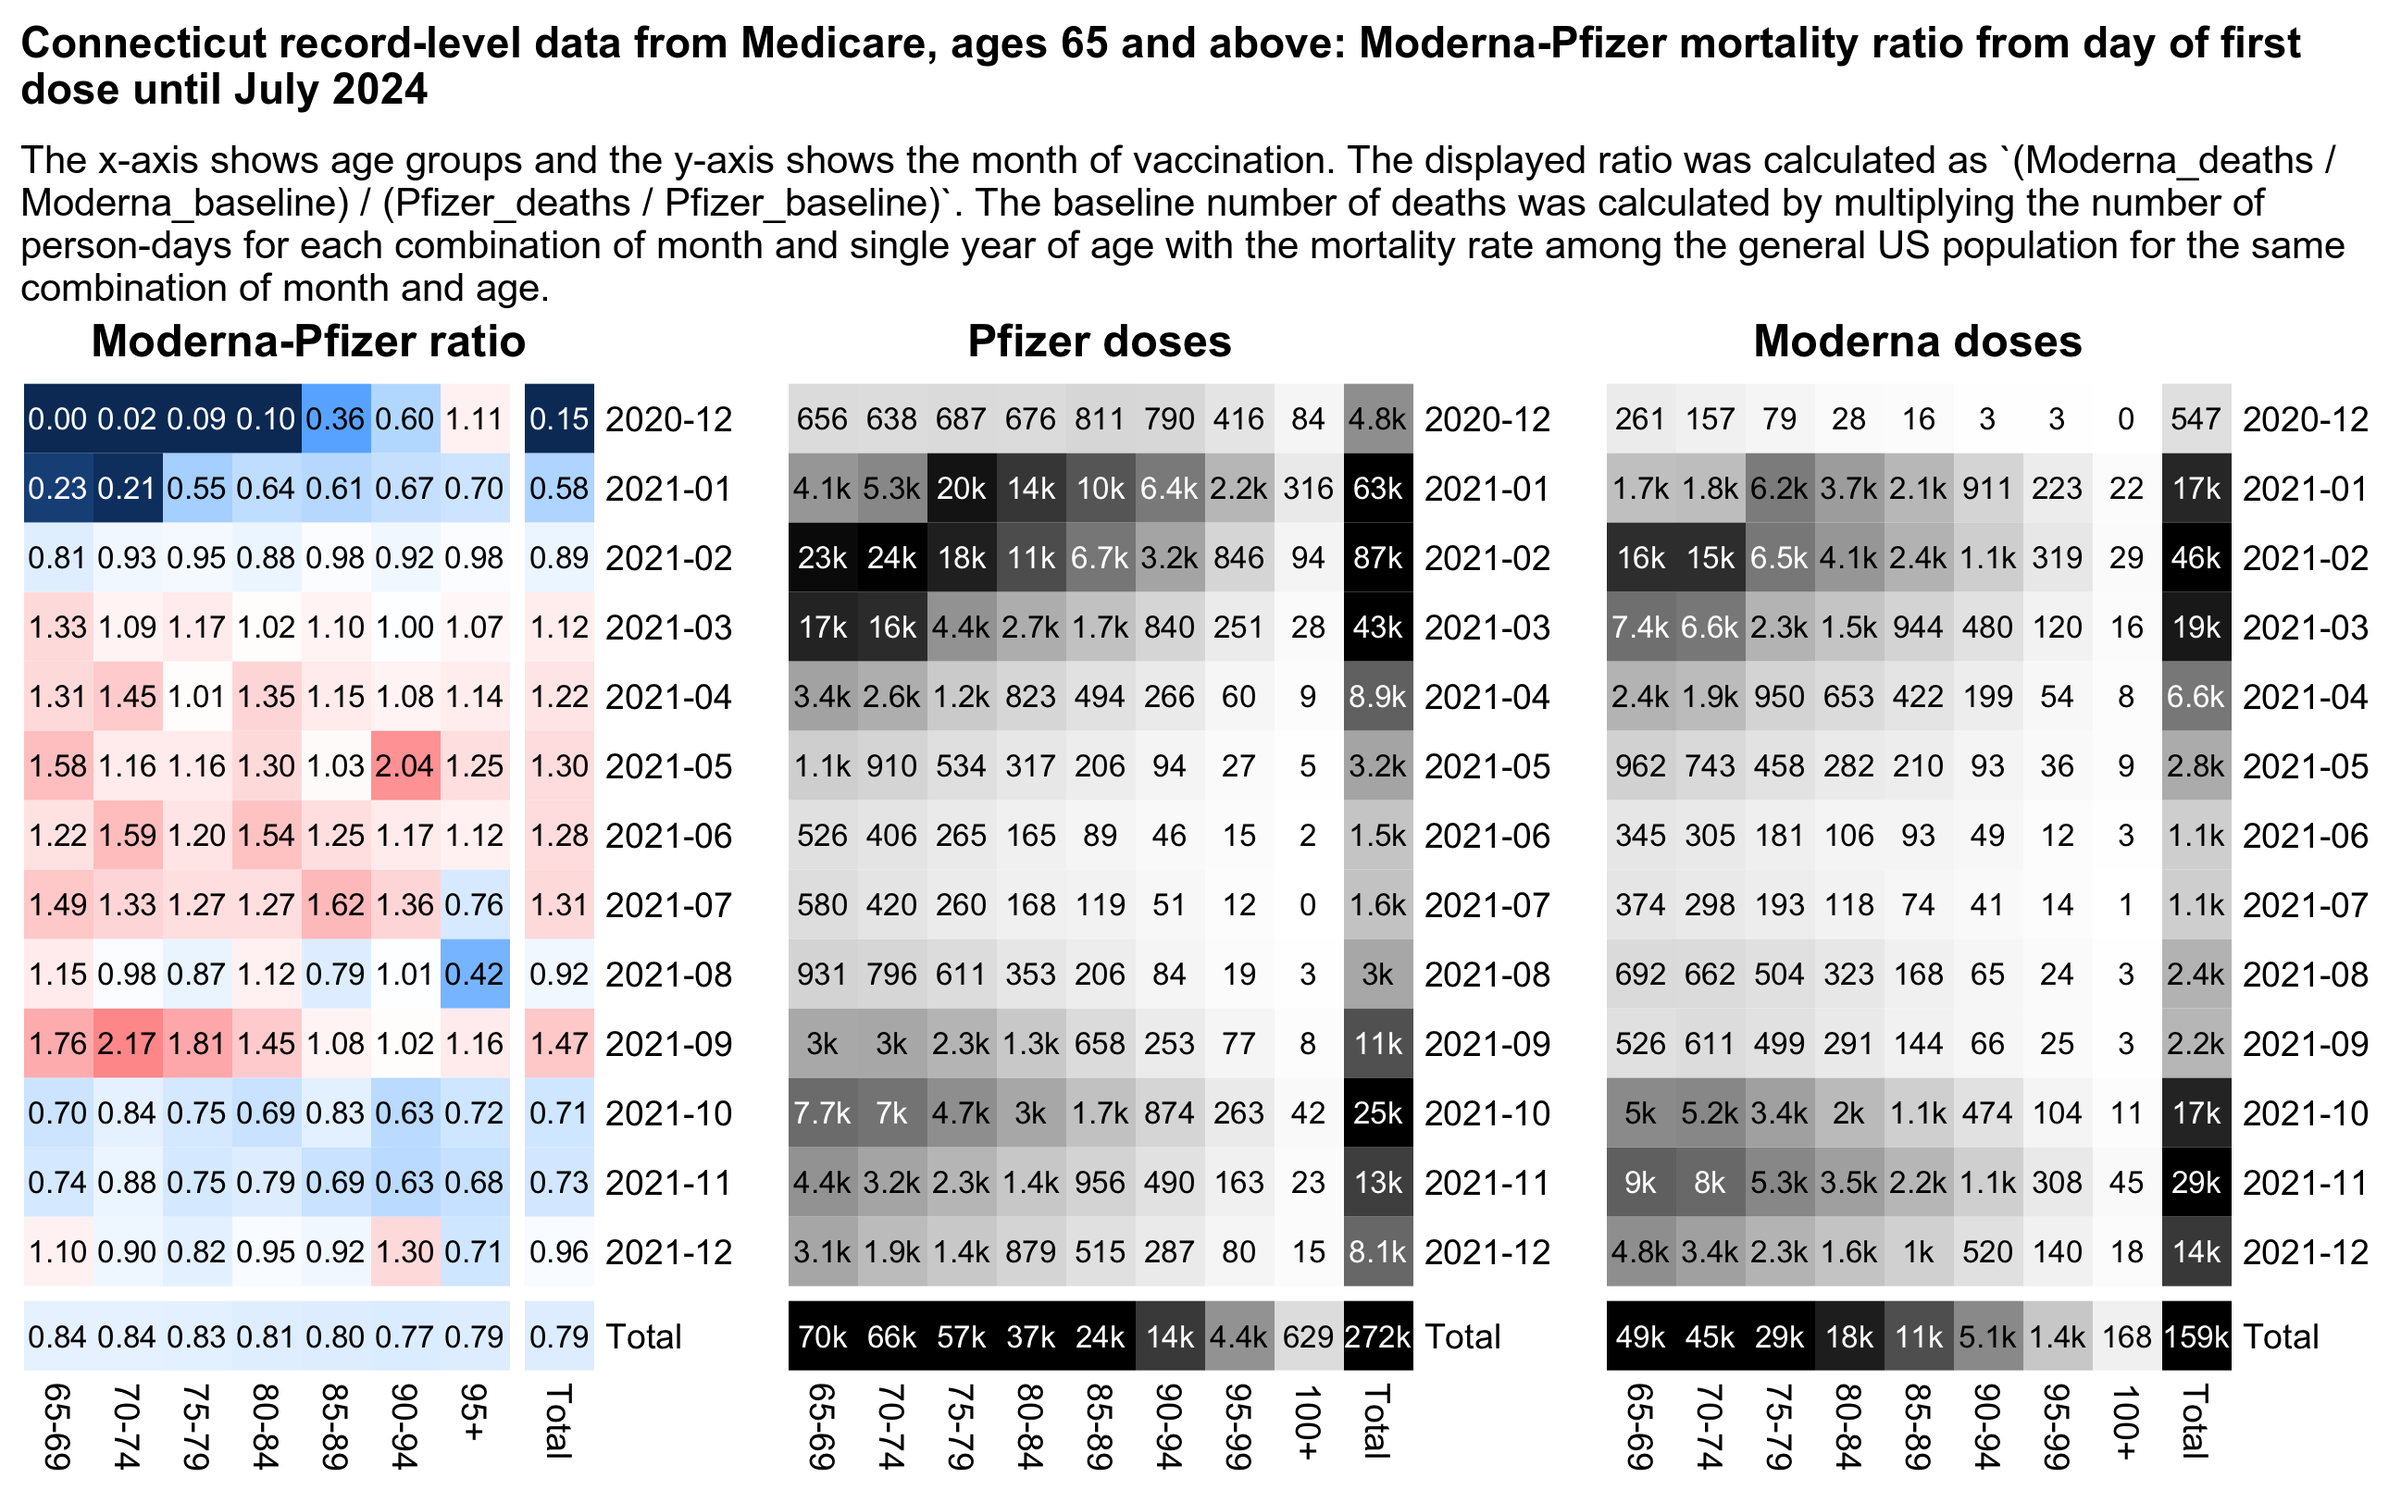
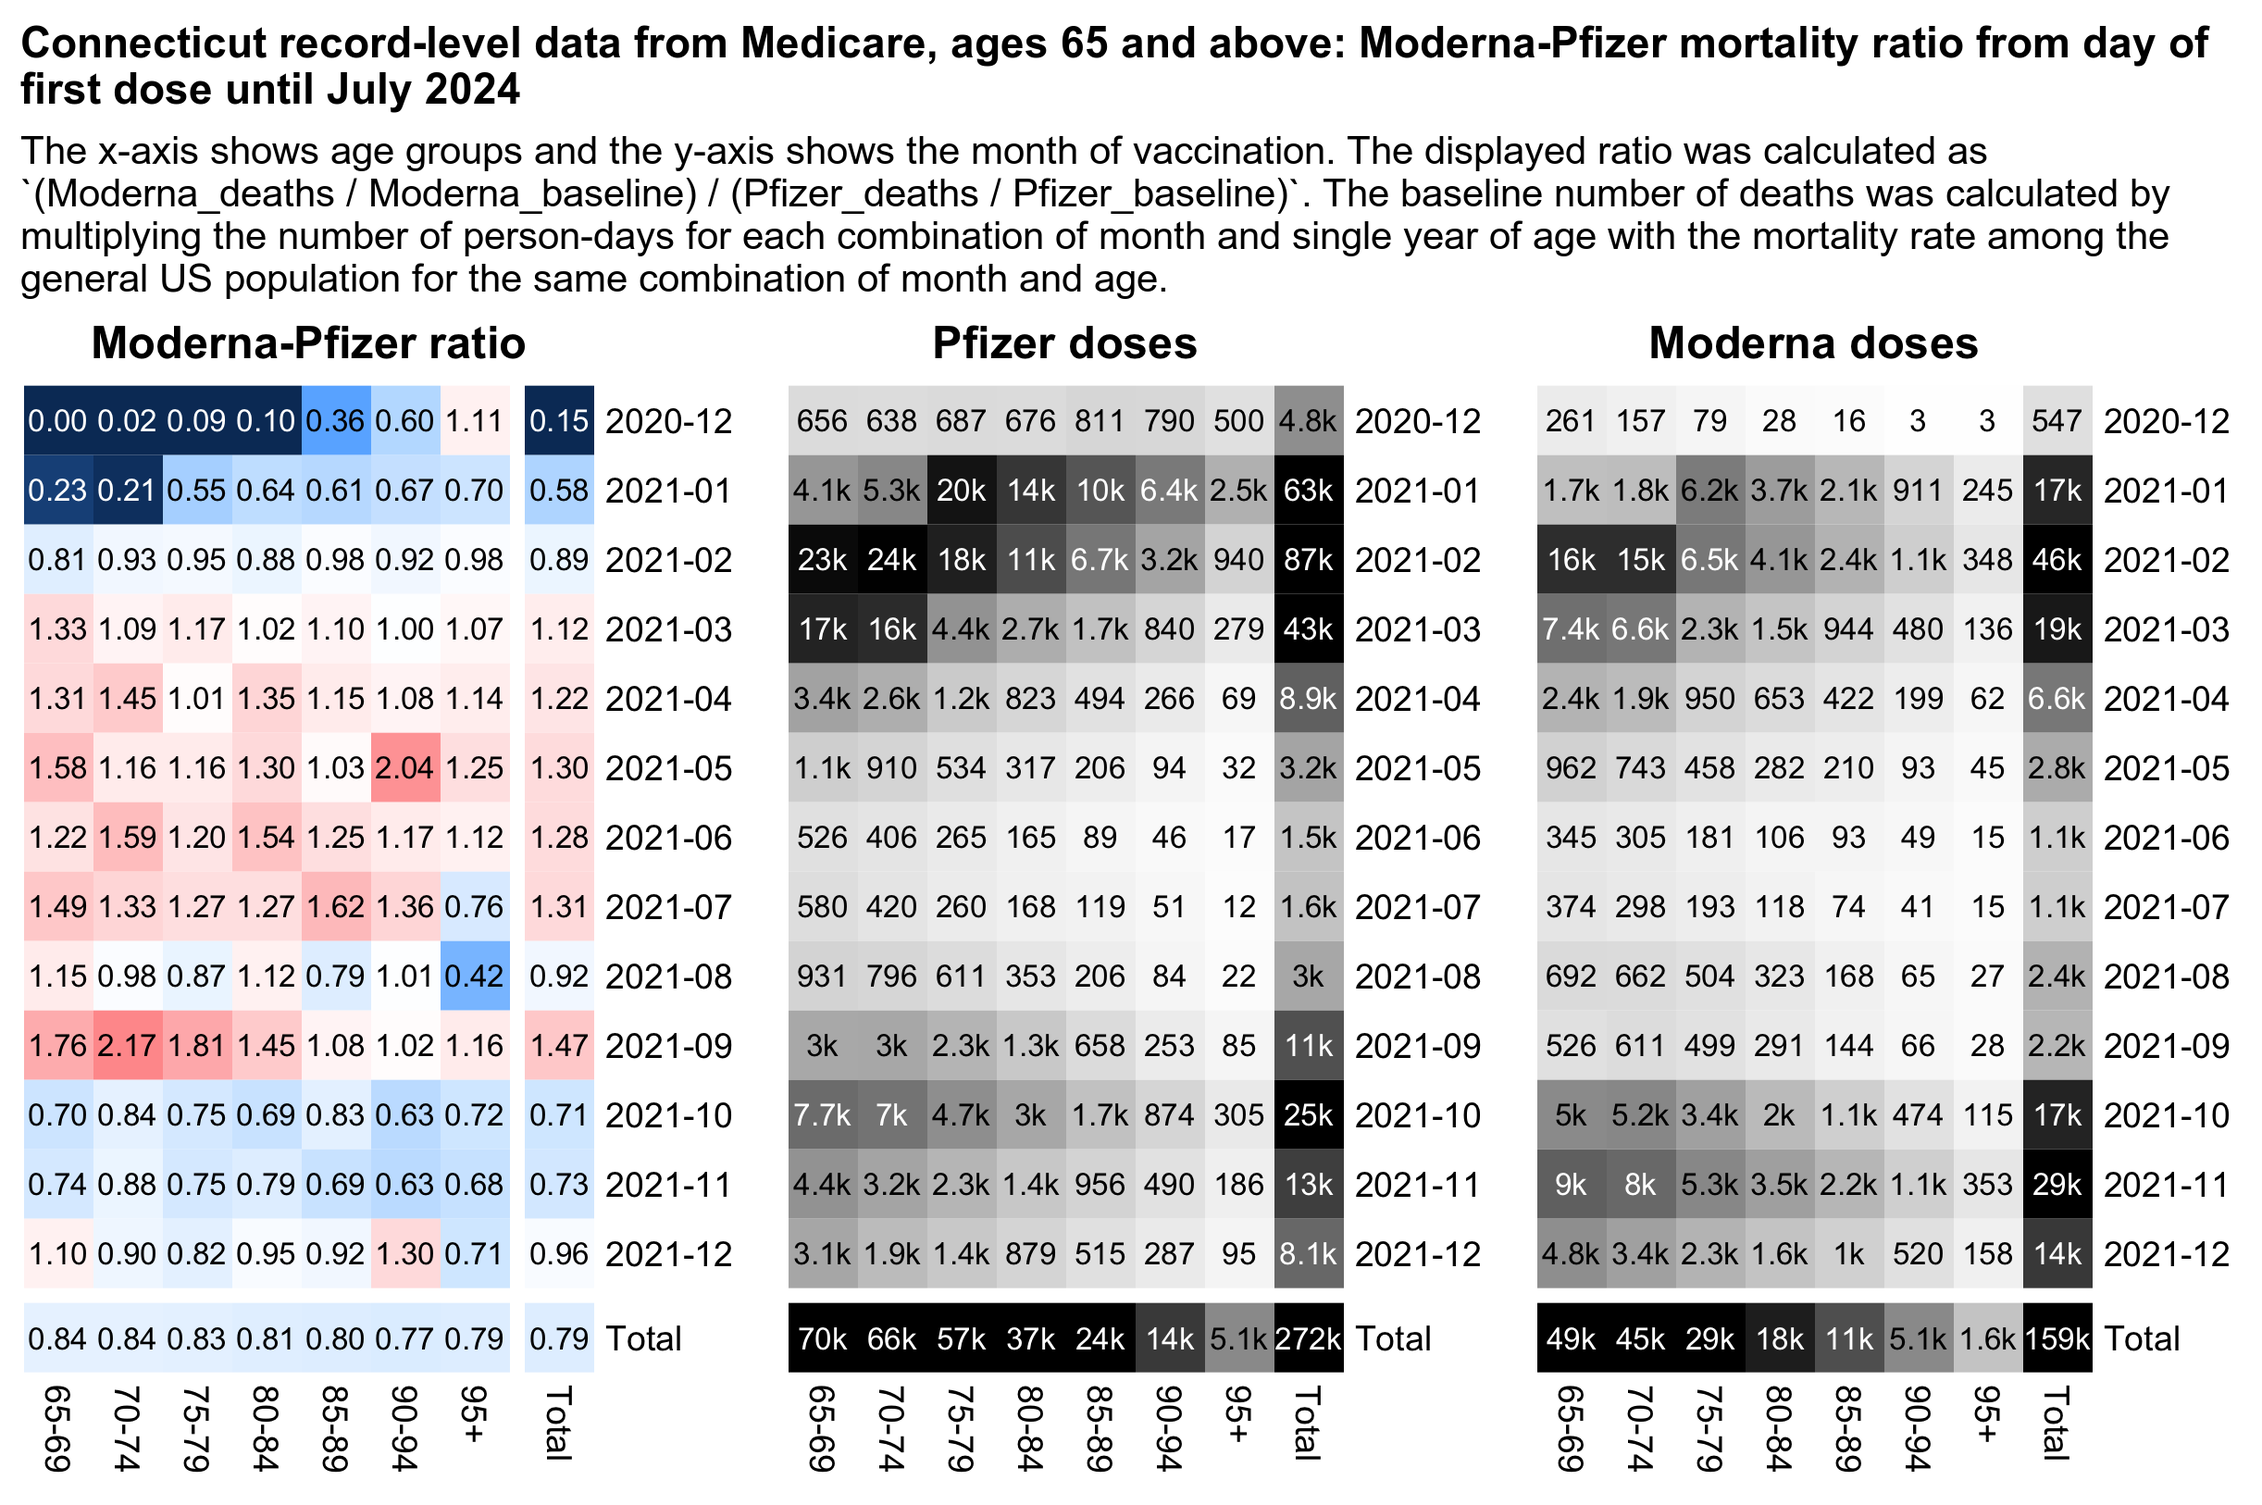
a

Changed region(s): [[0.0, 0.0, 0.9951, 0.9852]]

diff --git a/uk.html b/uk.html
@@ -27,7 +27,7 @@ blockquote .quote,blockquote blockquote,.quote .quote{color:hsl(45,55%,65%)}
 blockquote blockquote blockquote,blockquote blockquote .quote,blockquote .quote .quote,.quote .quote .quote{color:hsl(40,40%,50%)}
 .spoiler button{width:90px;border:0;font-family:inherit;font-size:inherit;color:inherit;margin:0;background:#4a4a4a;padding:4px 0px;outline:none;cursor:pointer}
 .spoiler pre{display:none;margin-top:0}
-.red{color:hsl(0,100%,75%)}
+.red,.red .quote{color:hsl(0,100%,75%)!important}
 .width1{max-width:100px}
 .width2{max-width:200px}
 .width3{max-width:300px}
@@ -46,7 +46,7 @@ blockquote blockquote blockquote,blockquote blockquote .quote,blockquote .quote 
 .width00 img,.width0 img{margin:0 -1.5px -1.5px 0;vertical-align:bottom}
 .blockimg{max-width:calc(100vw - min(50vw - 270px, 100vw - 1100px) - 40px - 6px)}
 @media print{
-  body{background:white;color:black;margin:0px;zoom:.75;print-color-adjust:exact;-webkit-print-color-adjust:exact}
+  body{background:white;color:black;margin:0px;zoom:1;print-color-adjust:exact;-webkit-print-color-adjust:exact}
   a{color:#0000EE}a:visited{color:#551A8B}
   h1,h2,h2 a,h3 a,h2 a:visited,h3 a:visited{color:black}
   pre,code{background:#ccc;color:black;font-size:13px}
@@ -76,7 +76,7 @@ blockquote blockquote blockquote,blockquote blockquote .quote,blockquote .quote 
 <li><a href=#Jikkyleaks_ASMR_in_people_with_two_doses_in_the_ONS_dataset>Jikkyleaks: ASMR in people with two doses in the ONS dataset</a></li>
 <li><a href=#Steve_Kirsch_Diagnoses_for_cataracts_in_England>Steve Kirsch: Diagnoses for cataracts in England</a></li>
 <li><a href=#Clare_Craig_Email_by_ONS_which_is_supposed_to_have_vindicated_Fenton_and_Neil>Clare Craig: Email by ONS which is supposed to have vindicated Fenton and Neil</a></li>
-<li><a href=#Steve_Kirsch_Lancet_paper_which_said_there_were_about_8_excess_deaths_in_the_UK_in_2022_and_2023>Steve Kirsch: Lancet paper which said there were about 8% excess deaths in the UK in 2022 and 2023</a></li>
+<li><a href=#Steve_Kirsch_Lancet_paper_which_said_there_was_about_8_excess_deaths_in_the_UK_in_2022_and_2023>Steve Kirsch: Lancet paper which said there was about 8% excess deaths in the UK in 2022 and 2023</a></li>
 <li><a href=#Camus_Mortality_rate_in_ages_10_14_in_an_old_version_of_the_ONS_dataset>Camus: Mortality rate in ages 10-14 in an old version of the ONS dataset</a></li>
 </ul>
 
@@ -998,7 +998,7 @@ system(paste0(&quot;f=0.png;mar=70;w=`identify -format %w $f`;convert \\( $f -gr
 <div class="width5">
 <img src="i/statistic-kirsch-cataract-2.jpg">
 </div>
-<p>However H28 isn't even a very comon diagnosis. And other more common eye-related diagnoses have remained more stable in England (even though in the financial year 2022-2022 there's about 15% total excess diagnoses under ICD codes H00-H59 relative to a pre-COVID linear trend, and there's also about 44% excess diagnoses for the common ICD code H26, <span class="quote">&quot;Other cataract&quot;</span>): [<a href="https://digital.nhs.uk/data-and-information/publications/statistical/hospital-admitted-patient-care-activity">https://digital.nhs.uk/data-and-information/publications/statistical/hospital-admitted-patient-care-activity</a>]</p>
+<p>However H28 isn't even a very comon diagnosis. And other more common eye-related diagnoses have remained more stable in England (even though in the financial year 2022-2023 I got about 15% total excess diagnoses under the ICD codes H00-H59, and I got about 44% excess diagnoses for the ICD code for <span class="quote">&quot;other cataract&quot;</span> which is much more common than H28): [<a href="https://digital.nhs.uk/data-and-information/publications/statistical/hospital-admitted-patient-care-activity">https://digital.nhs.uk/data-and-information/publications/statistical/hospital-admitted-patient-care-activity</a>]</p>
 <div class="width10">
 <img src="i/statistic-kirsch-cataract.png">
 </div>
@@ -1121,7 +1121,7 @@ print(mutate_if(me,is.double,round),r=F)</pre>
 <div class="width4">
 <img src="i/statistic-kirsch-cataract-6.jpg">
 </div>
-<p>Bridgen's plot might seem scary at first if you don't pay attention to how it shows diagnoses for family history of breast cancer, which presumably wouldn't have been affected as much by vaccination as the actual incidence of breast cancer (because the family history of cancer is based on the incidence over several decades so it doesn't change as fast as the actual incidence of breast cancer). Bridgen also didn't mention that his plot showed only primary diagnoses, but the family history diagnosis is not even supposed to be used as a primary diagnosis according to NHS guidelines. And his plot also didn't show that there was a fairly large number of primary diagnoses for family history of breast cancer in the business year 2009-2010 and earlier: [<a href="https://x.com/UncleJo46902375/status/1804448406535868862">https://x.com/UncleJo46902375/status/1804448406535868862</a>]</p>
+<p>Bridgen's plot might seem scary at first if you don't pay attention to how it shows diagnoses for family history of breast cancer, which presumably wouldn't have been impacted as much by vaccination as the actual incidence of breast cancer (because the family history of cancer is based on the incidence over several decades so it doesn't change as fast as the actual incidence of breast cancer). Bridgen also didn't mention that his plot showed only primary diagnoses, but the family history diagnosis is not even meant to be used as a primary diagnosis according to NHS guidelines. And his plot only started in the business year 2012-2013, so it didn't show that there was a fairly high number of primary diagnoses for family history of breast cancer in the business year 2009-2010 and earlier: [<a href="https://x.com/UncleJo46902375/status/1804448406535868862">https://x.com/UncleJo46902375/status/1804448406535868862</a>]</p>
 <div class="width11">
 <img src="i/statistic-kirsch-cataract-7.jpg">
 </div>
@@ -1185,7 +1185,7 @@ print(mutate_if(me,is.double,round),r=F)</pre>
 </blockquote>
 <p>However the ONS had already fixed the issue of the missing vaccination entries in 2022, but it didn't have much effect on the overall mortality rates of vaccinated and unvaccinated people. Unvaccinated people still have a big spike in non-COVID deaths in early 2021, there's still low mortality in the first 3 weeks after vaccination, and the ASMR of people with n-1 doses still shoots up when the nth dose is rolled out. So the various phenomena which Fenton and Neil attempted to explain in their preprints are still present in the ONS dataset even though the error of the missing vaccination records was already fixed. So the error was not sufficient to explain the phenomena, so Fenton and Neil still need to come up with some other way to explain them.</p>
 <h2>
-<a href=#Steve_Kirsch_Lancet_paper_which_said_there_were_about_8_excess_deaths_in_the_UK_in_2022_and_2023 id=Steve_Kirsch_Lancet_paper_which_said_there_were_about_8_excess_deaths_in_the_UK_in_2022_and_2023>Steve Kirsch: Lancet paper which said there were about 8% excess deaths in the UK in 2022 and 2023</a>
+<a href=#Steve_Kirsch_Lancet_paper_which_said_there_was_about_8_excess_deaths_in_the_UK_in_2022_and_2023 id=Steve_Kirsch_Lancet_paper_which_said_there_was_about_8_excess_deaths_in_the_UK_in_2022_and_2023>Steve Kirsch: Lancet paper which said there was about 8% excess deaths in the UK in 2022 and 2023</a>
 </h2>
 <p>Steve Kirsch posted this Substack post about a short comment-type paper that was published in The Lancet: [<a href="https://kirschsubstack.com/p/uk-ons-excess-deaths-in-the-uk-cannot">https://kirschsubstack.com/p/uk-ons-excess-deaths-in-the-uk-cannot</a>]</p>
 <div class="width6">
@@ -1337,7 +1337,7 @@ Vaccinated total
 7.7
 </td></tr>
 </table>
-<p>If the table which showed total mortality rate over the entire study period would've also been included in the two newest editions of the ONS dataset, the total CMR of unvaccinated people in ages 10-14 might have eventually crossed above vaccinated people. In the two newest editions the youngest age group was 18-39. The output below shows cumulative deaths per 100k person-years in ages 18-39 up to the month shown in the first column. Vaccinated CMR was initially higher which might have been if vaccinated people were older on average than unvaccinated people, or if vulnerable groups of people had been priorized for vaccination, but unvaccinated CMR crossed above vaccinated CMR in December 2021 (but in ages 10-14 it probably took longer for unvaccinated CMR to cross above vaccinated CMR because ages 10-14 got vaccinated later than ages 18-39):</p>
+<p>If the table which showed total mortality rate over the entire study period would've also been included in the two newest editions of the ONS dataset, the total CMR of unvaccinated people in ages 10-14 might have eventually crossed above vaccinated people. In the two newest editions the youngest age group was 18-39. The output below shows cumulative deaths per 100k person-years in ages 18-39 up to the month shown in the first column. Vaccinated CMR was initially higher which might have been because vaccinated people were older than unvaccinated people, or because vulnerable groups of people had been priorized for vaccination, but unvaccinated CMR eventually crossed above vaccinated CMR in December 2021 (but in ages 10-14 it probably took longer for unvaccinated CMR to cross above vaccinated CMR because ages 10-14 got vaccinated later than ages 18-39):</p>
 <pre>t=fread(&quot;http://sars2.net/f/ons.csv&quot;)
 t=t[ed==9|(ed==7&amp;month&lt;=&quot;2021-03&quot;)]
 a=t[age==&quot;18-39&quot;&amp;cause==&quot;All causes&quot;]
@@ -1350,7 +1350,7 @@ o[,ratio:=vaxcmr/unvaxcmr]
 mutate_if(o,is.double,round,2)|&gt;print(r=F)</pre>
 <!-- -->
 <pre>  month vaxcmr unvaxcmr ratio
-2021-01  51.94    68.28  0.76
+2021-01  51.94    68.28  0.76 # cumulative CMR
 2021-02  80.93    60.30  1.34
 2021-03  77.39    54.78  1.41
 2021-04  83.64    49.71  1.68

diff --git a/connecticut.html b/connecticut.html
@@ -536,12 +536,10 @@ ggsave(&quot;1.png&quot;,width=4,height=2.7,dpi=400)</pre>
 <h2>
 <a href=#Moderna_Pfizer_mortality_ratio_by_age_group id=Moderna_Pfizer_mortality_ratio_by_age_group>Moderna-Pfizer mortality ratio by age group</a>
 </h2>
-<p>Ulf Lorré pointed out that in most age groups Pfizer got higher relative risk than Moderna: [<a href="https://x.com/ULorre/status/1841193612543213775">https://x.com/ULorre/status/1841193612543213775</a>]</p>
-<div class="width6">
-<img src="i/ct-ageheat-1.png">
-</div>
-<p>However Moderna-Pfizer mortality ratio also depends a lot on the month of vaccination. Here among people who got the first dose in March, April, May, June, July, or September 2021, Moderna got a higher age-normalized mortality rate than Pfizer in most age groups:</p>
-<div class="width8">
+<p>Ulf Lorré got higher relative risk for Pfizer than Moderna for most ages which had a sufficiently large sample size: [<a href="https://x.com/ULorre/status/1841193612543213775">https://x.com/ULorre/status/1841193612543213775</a>]</p>
+<p><img src=i/ct-ageheat-1.png style=max-width:550px></p>
+<p>However the Moderna-Pfizer mortality ratio also depends a lot on the month of vaccination. Here among people who got the first dose in March, April, May, June, July, or September 2021, Moderna got a higher normalized mortality rate than Pfizer in most age groups:</p>
+<div class="width9">
 <img src="i/ct-ageheat-2.png">
 </div>
 <div class="spoiler">
@@ -586,7 +584,7 @@ pheatmap::pheatmap(m,filename=&quot;mort.png&quot;,display_numbers=disp,
   colorRampPalette(hsv(rep(c(7/12,0),4:5),c(.9,.75,.6,.3,0,.3,.6,.75,.9),c(.4,.65,1,1,1,1,1,.65,.4)))(256))
 
 ct=fread(&quot;http://sars2.net/f/ctmort.csv.gz&quot;)
-ct=ct[age&gt;=65&amp;year(date1)&lt;2022,.N,.(brand,month=yemo(date1),age=agecut(pmin(age,100),seq(65,100,5)))]
+ct=ct[age&gt;=65&amp;year(date1)&lt;2022,.N,.(brand,month=yemo(date1),age=agecut(pmin(age,95),seq(65,95,5)))]
 maxcolor2=max(ct$N)
 ct=rbind(ct,ct[,.(N=sum(N),month=&quot;Total&quot;),.(age,brand)])
 ct=rbind(ct,ct[,.(N=sum(N),age=&quot;Total&quot;),.(month,brand)])
